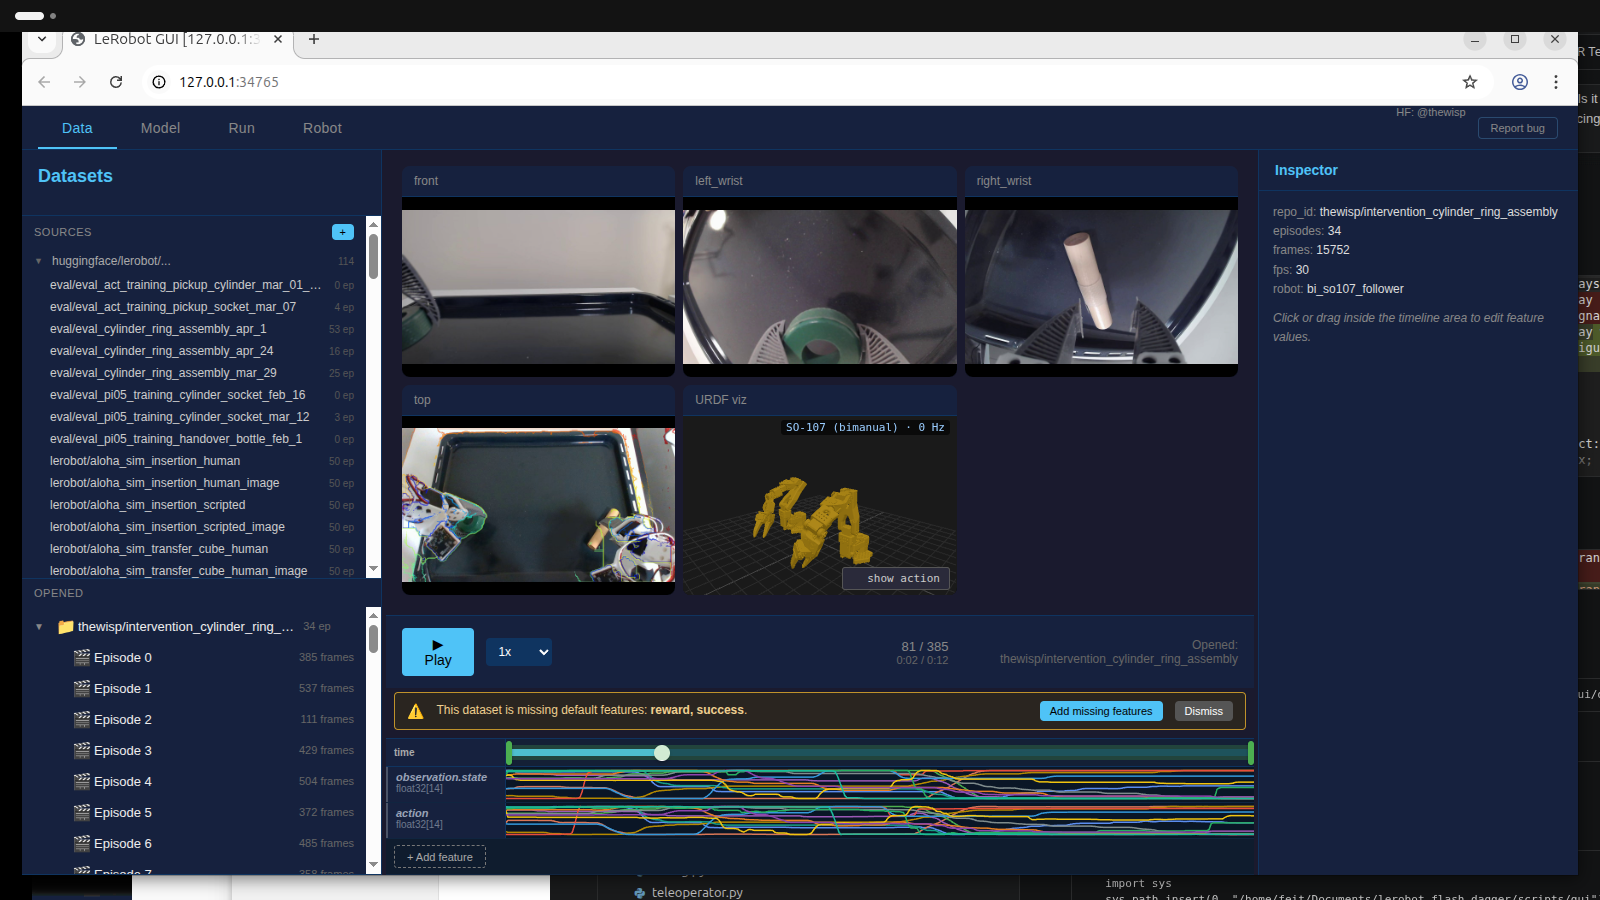
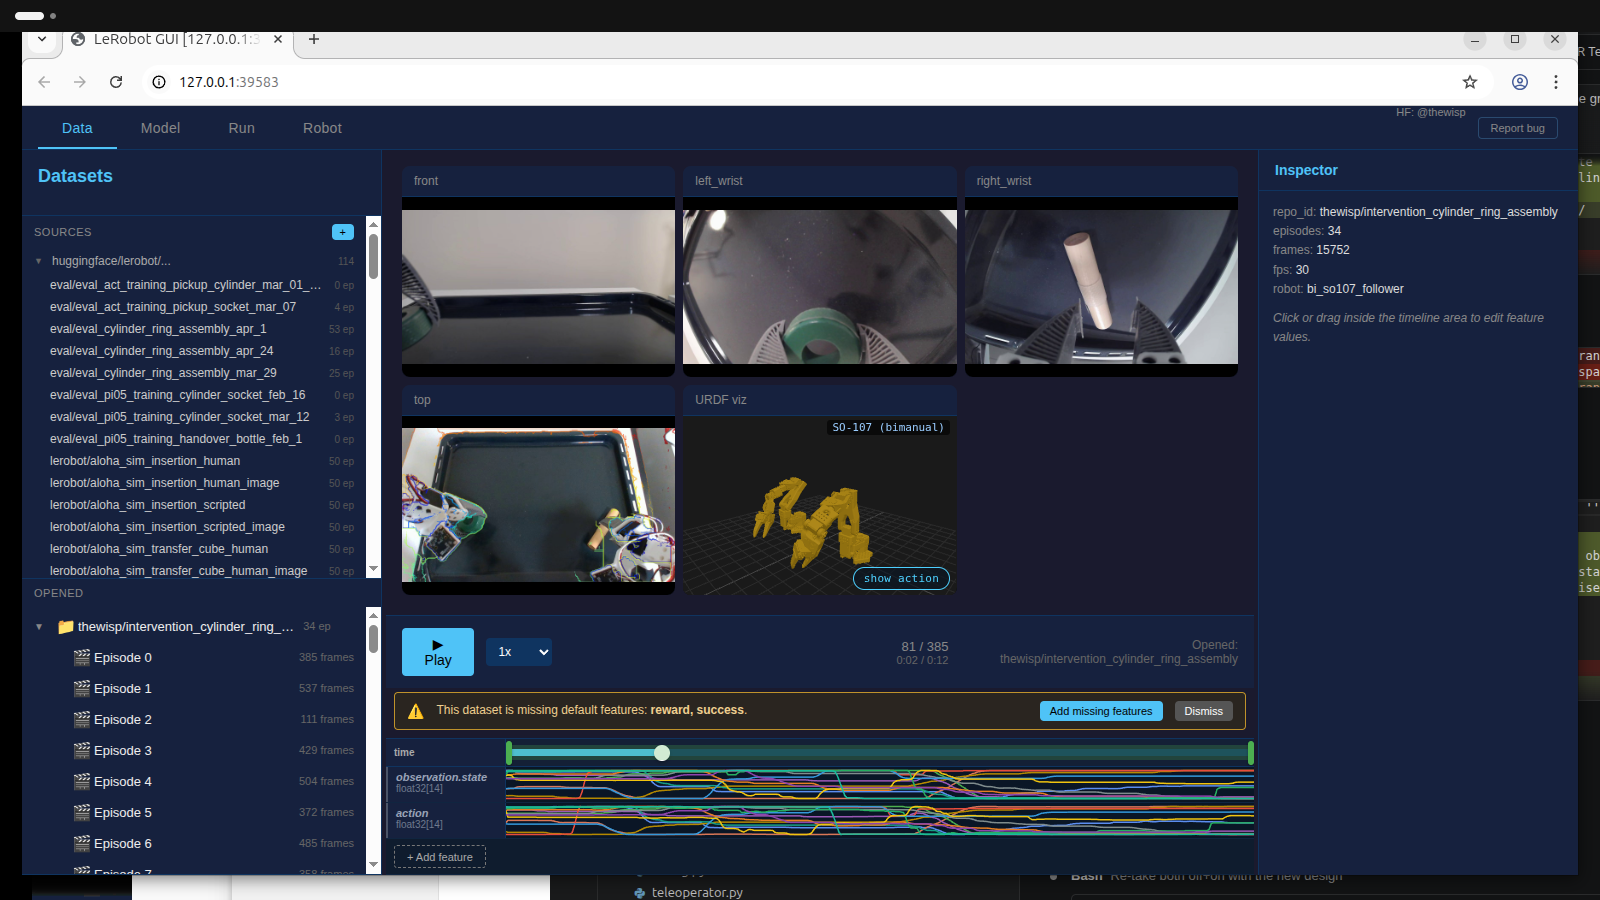
gui(urdf-viz): outlined/filled pill toggle; drop 0 Hz in dataset mode
Toggle redesign — feedback was that the gray off-state didn't read as
clickable, and the reserved-but-invisible check was wasted space. Now
follows the standard toggle-button pattern (Material UI / Tailwind UI /
Bootstrap btn-outline-*): outlined pill when off, solid-filled pill when
on. The cyan border in the off state is what signals "this is a
control", and the outline→fill transition is a strong non-text on-state
signal (works without colour too). Drops the icon entirely — the fill
change IS the signal.

Bonus: the readout in dataset mode used to show ``0 Hz`` at steady
state, because the iframe only re-renders on scrubber moves and the
poll counter is zero between them. Misleading, since "0 Hz" sounds like
a failure mode. Hz is only shown in live mode now (where dropped polls
DO mean stale obs); dataset mode shows just the robot name.

diff --git a/src/lerobot/gui/static/urdf_viz.html b/src/lerobot/gui/static/urdf_viz.html
@@ -12,29 +12,27 @@
             border-radius: 3px; pointer-events: none; }
   /* bottom-right ghost toggle. Pointer-events on so it's clickable; everything
      else in the page is the orbit-controls canvas. */
-  /* Solid button (not a translucent label like the camera-key overlays) so
-     it reads as an actionable control. Filled cyan when on, dark gray when
-     off; a check appears only on the on side so the signal is unambiguous
-     for colour-blind users too (not just bg-colour). */
+  /* Outlined-when-off, filled-when-on — the standard Material/Tailwind/
+     Bootstrap toggle-button pattern. The cyan border in the off state is
+     what tells the user "this is a control", and switching from outlined
+     to filled is the on-state signal. No reserved-space-for-an-icon
+     awkwardness, and the fill change is a strong non-text signal. */
   #ghost-toggle { position: absolute; bottom: 6px; right: 6px;
                   font-size: 11px; font-family: monospace;
-                  color: #ccc; background: #2a2a3a;
-                  padding: 4px 9px; border-radius: 3px;
-                  border: 1px solid #555; cursor: pointer; user-select: none;
-                  display: inline-flex; align-items: center; gap: 6px; }
-  #ghost-toggle:hover { background: #3a3a4a; border-color: #777; }
-  #ghost-toggle.on { color: #0a1622; background: #4dd0ff; border-color: #4dd0ff;
-                     font-weight: 600; }
-  #ghost-toggle.on:hover { background: #7be0ff; border-color: #7be0ff; }
-  /* The check is hidden in the off state and revealed in the on state.
-     Width stays reserved either way so the button doesn't reflow. */
-  #ghost-toggle .check { width: 9px; text-align: center; visibility: hidden; }
-  #ghost-toggle.on .check { visibility: visible; }
+                  color: #4dd0ff; background: rgba(10, 22, 34, 0.7);
+                  padding: 4px 10px; border-radius: 12px;
+                  border: 1px solid #4dd0ff; cursor: pointer; user-select: none;
+                  letter-spacing: 0.02em;
+                  transition: background 0.1s, color 0.1s; }
+  #ghost-toggle:hover { background: rgba(77, 208, 255, 0.18); }
+  #ghost-toggle.on { color: #0a1622; background: #4dd0ff; font-weight: 600; }
+  #ghost-toggle.on:hover { background: #7be0ff; }
+  #ghost-toggle:focus-visible { outline: 2px solid #4dd0ff; outline-offset: 1px; }
 </style>
 </head>
 <body>
 <div id="status">starting…</div>
-<button id="ghost-toggle" title="Overlay the commanded action as a translucent robot on top of the recorded state"><span class="check">✓</span><span class="label">show action</span></button>
+<button id="ghost-toggle" title="Overlay the commanded action as a translucent robot on top of the recorded state">show action</button>
 <script type="importmap">
 {
   "imports": {
@@ -313,11 +311,16 @@ async function init() {
   }
   _label = (data.name || 'robot') + (data.bimanual ? ' (bimanual)' : '');
   setStatus(_label);
-  setInterval(() => {
-    setStatus(`${_label} · ${_polls} Hz`);
-    _polls = 0;
-  }, 1000);
-  if (MODE === 'live') _pollLive();
+  if (MODE === 'live') {
+    // Hz is a meaningful signal in live mode (dropped polls = stale obs).
+    // In dataset mode we only refresh on scrubber moves, so steady-state
+    // is genuinely 0 Hz and the readout would just be misleading noise.
+    setInterval(() => {
+      setStatus(`${_label} · ${_polls} Hz`);
+      _polls = 0;
+    }, 1000);
+    _pollLive();
+  }
   // dataset mode is event-driven — postMessage handler above does the work.
 }
 